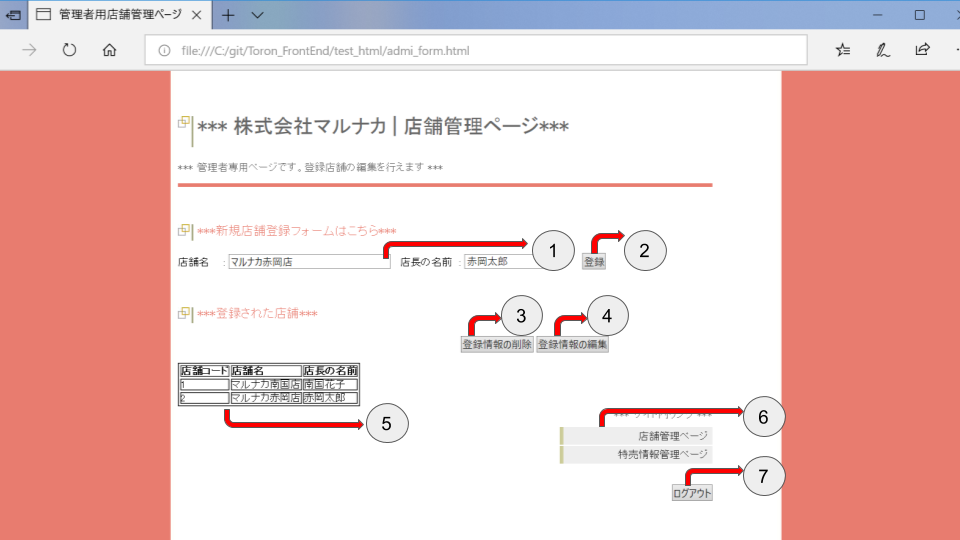
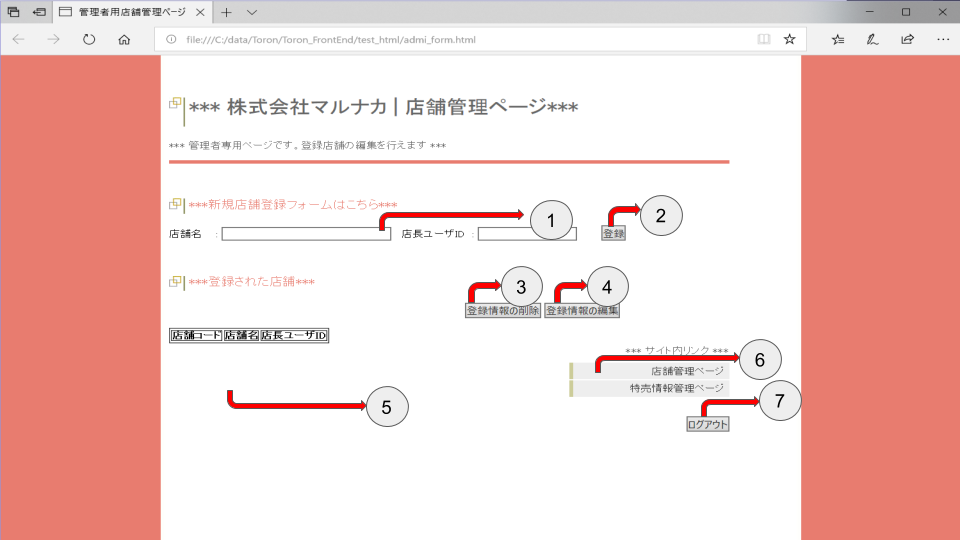
画像の修正を加えた

Changed region(s): [[0.0, 0.0, 1.0, 1.0], [0.5625, 0.8, 0.5938, 0.8593]]

diff --git a/test_html/admi_form.html b/test_html/admi_form.html
@@ -111,7 +111,7 @@
         <input id ="cellphone" name="cellphone" type="text" size="15"><br>
         店舗住所　:
         <input id ="address" name="address" type="text" size="30">  -->
-            　店長の名前　:
+            　店長ユーザID　:
         <input id ="tentyouName" name="tentyouName" type="text" size="15">
   　      　  <input name="button" type="button" value="登録" onClick="creatTable0()">
       </div>
@@ -123,7 +123,7 @@
     <br><br>
     <table border="1" id = "table">
       <tr>
-        <th>店舗コード</th><th>店舗名</th><th>店長の名前</th>
+        <th>店舗コード</th><th>店舗名</th><th>店長ユーザID</th>
       </tr>
     </table>
     <div align="right">
